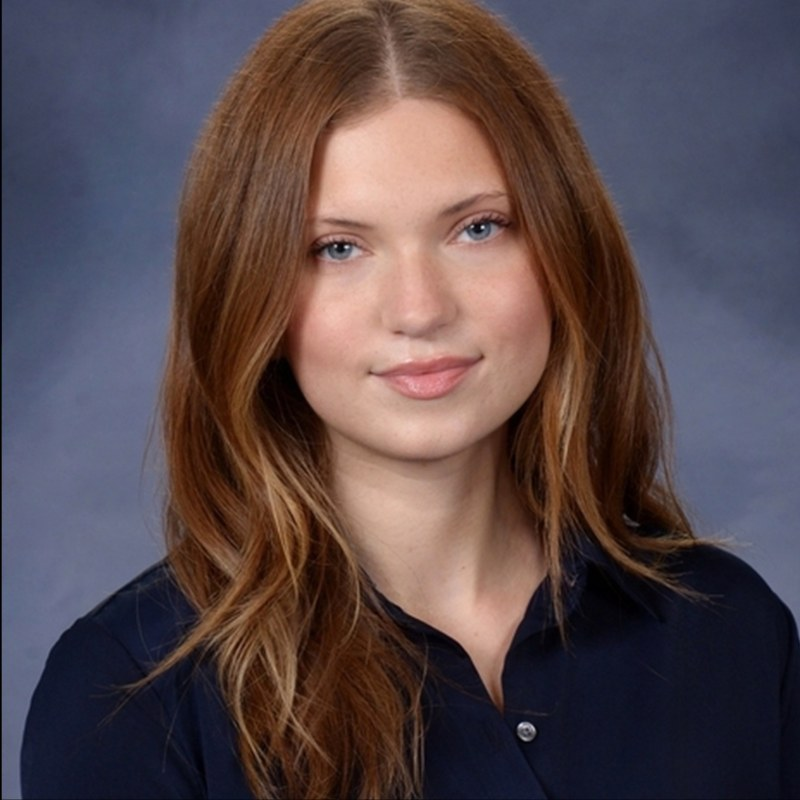
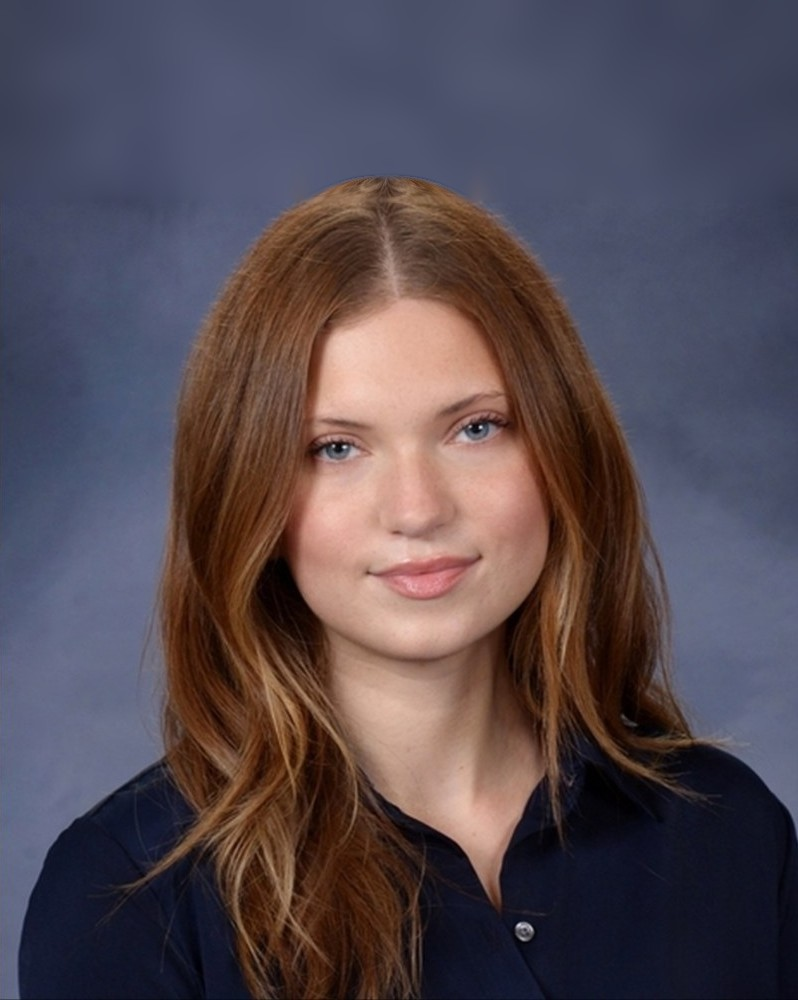
Zoom out headshot so full head shows

diff --git a/index.html b/index.html
@@ -52,7 +52,7 @@
         <div class="portrait-frame reveal">
           <div class="portrait-arch">
             <div class="portrait">
-              <img src="headshot.jpg" alt="Portrait of Leah Dyhrkopp" width="800" height="800">
+              <img src="headshot.jpg?v=2" alt="Portrait of Leah Dyhrkopp" width="798" height="1000">
             </div>
           </div>
           <p class="portrait-caption"><span class="dot" aria-hidden="true"></span> Open to roles in AI governance, responsible AI deployment and integration, and AI policy at the corporate or legislative level</p>

diff --git a/style.css b/style.css
@@ -477,7 +477,7 @@ code { font-family: ui-monospace, "SF Mono", Menlo, monospace; font-size: 0.85em
 .tl-points li::marker { color: var(--maroon); }
 .toolkit { margin-top: 40px; padding-top: 28px; border-top: 1px solid var(--line); }
 .toolkit h4 { margin: 0; }
-.portrait img { object-position: center 30%; }
+.portrait img { object-position: center top; }
 
 /* ---------- Mid-size project cards ---------- */
 .card-mid { grid-column: span 2; padding: 0; overflow: hidden; }
